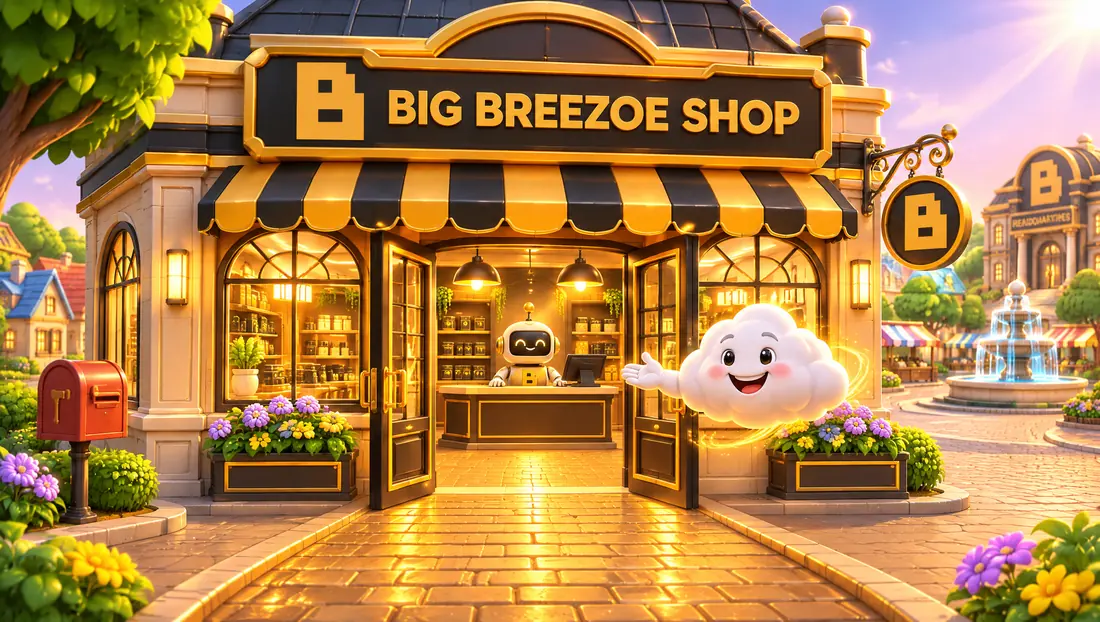
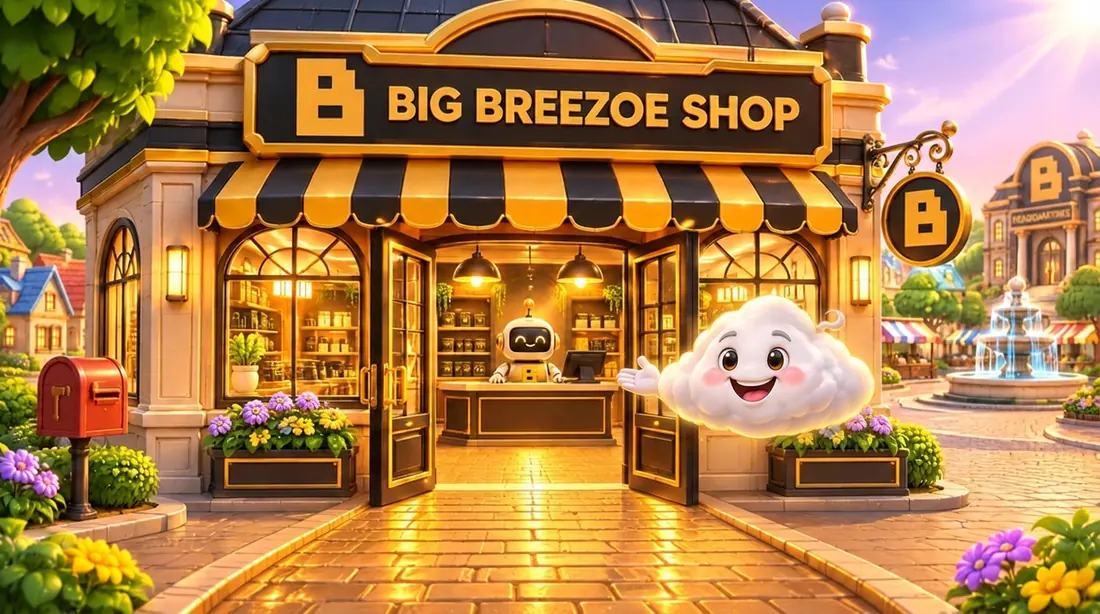
Breezy turns in steps, and the hero and shop pictures get his new face (#56)
Six more angles of the same cloud (front to side, back three-quarter,
back), so the Ask Breezy button looks left and right in steps and spins
all the way round every third time. They load on the first quiet moment,
not with the page. Reduced motion: no turn, as before.

The home hero and the members shop picture now show Breezy's big-eyed
face. Same file names, so each reference carries a v=2 stamp.

The pictures are AI-generated concept art of an original character.

diff --git a/public/index.html b/public/index.html
@@ -29,9 +29,9 @@
 <link rel="preload" href="/media/hero-loop.avif" as="image" type="image/avif" fetchpriority="high">
 <!--bb:head-->
 <link rel="preload" href="/fonts/archivo-latin.woff2" as="font" type="font/woff2" crossorigin>
-<link rel="stylesheet" href="/assets/bb.css?v=bab32f9096">
+<link rel="stylesheet" href="/assets/bb.css?v=684ec88070">
 <script>document.documentElement.classList.add('js');setTimeout(function(){if(!window.__bbReady)document.documentElement.classList.add('rv-off')},2500)</script>
-<script src="/assets/bb.js?v=bac7d2e8d4" data-bz="218a1aadc4" defer></script>
+<script src="/assets/bb.js?v=6737adaa4a" data-bz="218a1aadc4" defer></script>
 <!--/bb:head-->
 <script type="application/ld+json">{"@context":"https://schema.org","@graph":[{"@type":"Organization","@id":"https://bigbreezoe.com/#org","name":"Big Breezoe","legalName":"Big Breezoe LLC","url":"https://bigbreezoe.com/","logo":"https://bigbreezoe.com/favicon.svg","sameAs":["https://youtube.com/@bigbreezoe","https://tiktok.com/@bigbreezoe","https://instagram.com/bigbreezoe","https://x.com/bigbreezoe","https://twitch.tv/bigbreezoe","https://www.linkedin.com/in/bigbreezoe","https://facebook.com/bigbreezoe"],"founder":{"@id":"https://bigbreezoe.com/#cris"},"email":"hello@bigbreezoe.com","description":"Big Breezoe is one person, Cris Delerme, building a creator business in AI, content and automation around a full-time job, in public. Weekly YouTube episodes, a free Beginner Creator Blueprint, and setup help at one price per job."},{"@type":"WebSite","@id":"https://bigbreezoe.com/#site","url":"https://bigbreezoe.com/","name":"Big Breezoe","publisher":{"@id":"https://bigbreezoe.com/#org"}},{"@type":"Person","@id":"https://bigbreezoe.com/#cris","name":"Cris Delerme","alternateName":"Big Breezoe","url":"https://bigbreezoe.com/","worksFor":{"@id":"https://bigbreezoe.com/#org"},"sameAs":["https://youtube.com/@bigbreezoe"]},{"@type":"ItemList","@id":"https://bigbreezoe.com/#episodes","name":"Big Breezoe episodes","itemListOrder":"https://schema.org/ItemListOrderDescending","itemListElement":[{"@type":"ListItem","position":1,"item":{"@type":"VideoObject","name":"The One Thing No App Can Take From You (Start an Email List)","description":"Why Cris is building an email list, two people already doing it, the free tool he uses, a live test, and the email rules most people skip.","uploadDate":"2026-11-15T16:00:08-08:00","duration":"PT11M17S","thumbnailUrl":"https://i.ytimg.com/vi/A9awWFVUiPY/maxresdefault.jpg","contentUrl":"https://www.youtube.com/watch?v=A9awWFVUiPY","embedUrl":"https://www.youtube.com/embed/A9awWFVUiPY","publisher":{"@id":"https://bigbreezoe.com/#org"}}},{"@type":"ListItem","position":2,"item":{"@type":"VideoObject","name":"Stop Guessing Your Next Video: YouTube's Free 4-Step Method","description":"How to pick your next video without guessing: the free way with YouTube's own tools, then a paid tool to show what the extra money gets you.","uploadDate":"2026-11-08T16:00:07-08:00","duration":"PT9M11S","thumbnailUrl":"https://bigbreezoe.com/media/ep/ep6.webp","contentUrl":"https://www.youtube.com/watch?v=4bjLrZQvZFY","embedUrl":"https://www.youtube.com/embed/4bjLrZQvZFY","publisher":{"@id":"https://bigbreezoe.com/#org"}}},{"@type":"ListItem","position":3,"item":{"@type":"VideoObject","name":"One of These Voices Is AI. Can You Tell?","description":"A blind test of Cris's real voice against an AI voice, plus the speech-to-text he uses on every edit and the catch with the free plan.","uploadDate":"2026-11-02T15:55:39-08:00","duration":"PT7M58S","thumbnailUrl":"https://bigbreezoe.com/media/ep/ep5.webp","contentUrl":"https://www.youtube.com/watch?v=Ht6NTtqV3Yk","embedUrl":"https://www.youtube.com/embed/Ht6NTtqV3Yk","publisher":{"@id":"https://bigbreezoe.com/#org"}}},{"@type":"ListItem","position":4,"item":{"@type":"VideoObject","name":"My Episode Lost to Its Own Clip. 4 Tools That Turn 1 Video Into 10","description":"Four tools that turn one long video into many short ones, each labeled by whether Cris uses it, has used it, or only researched it.","uploadDate":"2026-10-26T20:04:13-07:00","duration":"PT4M30S","thumbnailUrl":"https://bigbreezoe.com/media/ep/ep4.webp","contentUrl":"https://www.youtube.com/watch?v=4CSPWjAo9R4","embedUrl":"https://www.youtube.com/embed/4CSPWjAo9R4","publisher":{"@id":"https://bigbreezoe.com/#org"}}},{"@type":"ListItem","position":5,"item":{"@type":"VideoObject","name":"Which Video Editor Should You Start With? Free vs. Paid","description":"Free and paid video editors compared for someone starting out.","uploadDate":"2026-10-18T07:00:07-07:00","duration":"PT7M17S","thumbnailUrl":"https://bigbreezoe.com/media/ep/ep3.webp","contentUrl":"https://www.youtube.com/watch?v=biNZ1V3bXQg","embedUrl":"https://www.youtube.com/embed/biNZ1V3bXQg","publisher":{"@id":"https://bigbreezoe.com/#org"}}},{"@type":"ListItem","position":6,"item":{"@type":"VideoObject","name":"Do You Need a Wireless Mic? I Tested It Against My Phone","description":"A wireless clip-on mic tested against a phone's own microphone.","uploadDate":"2026-10-04T07:00:09-07:00","duration":"PT6M45S","thumbnailUrl":"https://bigbreezoe.com/media/ep/ep2.webp","contentUrl":"https://www.youtube.com/watch?v=RWV-s5zHj-Q","embedUrl":"https://www.youtube.com/embed/RWV-s5zHj-Q","publisher":{"@id":"https://bigbreezoe.com/#org"}}},{"@type":"ListItem","position":7,"item":{"@type":"VideoObject","name":"I Had 39 Subscribers and Zero Videos. Here's What I'm Building.","description":"Episode 1: where Big Breezoe starts and what Cris is building.","uploadDate":"2026-09-27T07:00:06-07:00","duration":"PT6M8S","thumbnailUrl":"https://bigbreezoe.com/media/ep/ep1.webp","contentUrl":"https://www.youtube.com/watch?v=aCd5qoeZ9xc","embedUrl":"https://www.youtube.com/embed/aCd5qoeZ9xc","publisher":{"@id":"https://bigbreezoe.com/#org"}}}]}]}</script>
 </head>
@@ -54,7 +54,7 @@
 <!-- 1. Hero -->
 <section class="hero" id="top" aria-labelledby="hero-h">
 <div class="hero-media" aria-hidden="true">
-<img src="/media/golden-road-hero.webp" srcset="/media/golden-road-hero-800.webp 800w, /media/golden-road-hero.webp 1600w" sizes="100vw" width="1600" height="893" alt="" fetchpriority="high" decoding="async">
+<img src="/media/golden-road-hero.webp?v=2" srcset="/media/golden-road-hero-800.webp?v=2 800w, /media/golden-road-hero.webp?v=2 1600w" sizes="100vw" width="1600" height="893" alt="" fetchpriority="high" decoding="async">
 </div>
 <span class="hero-tag">AI-generated concept art</span>
 <div class="wrap hero-in">

diff --git a/public/assets/breezy-turn.js b/public/assets/breezy-turn.js
@@ -1,5 +1,5 @@
 /* Breezy's turnaround (Nov 18). Loaded after the page is up, so the shared script stays small.
-   Adds three more drawings of the same cloud to the Ask Breezy button (three-quarter, flying, pointing; all face left,
+   Adds more drawings of the same cloud to the Ask Breezy button (three-quarter, flying, pointing, and six turn angles; all face left,
    and .bzc-turn mirrors them to face right). He leans into a flight, points at the step with his cloud arm, flies back,
    and looks left and right now and then. Only transform and opacity move. Reduced motion: no flight pose, no glance. */
 (function () {
@@ -44,13 +44,41 @@
   }
   new MutationObserver(onMove).observe(b, { attributes: true, attributeFilter: ['class'] });
 
-  // The turnaround: at home with nothing else going on, he looks left, then right, then back.
+  // The turnaround (Nov 19: six more angles, so a turn is drawn in steps instead of one jump). s1 to s4 turn from the
+  // front to a full side view, s5 is the back three-quarter and s6 the back. They load on the first quiet moment,
+  // not with the page. At home with nothing else going on he looks left and right; every third time he spins all the way round.
+  var more = 0, n = 0;
+  function loadMore() {
+    more = [];
+    for (var k = 1; k < 7; k++) {
+      var i = doc.createElement('img'); i.className = 'bzc-s' + k; i.src = '/media/breezy-cloud-s' + k + '.webp';
+      i.width = 176; i.height = 109; i.alt = ''; i.decoding = 'async';
+      turn.appendChild(i); more.push(i);
+    }
+  }
+  function ready() { return more.every(function (i) { return i.complete && i.naturalWidth; }); }
+  function steps(names, dir) { return names.split(' ').map(function (v) { return [v, dir]; }); }
+  var LOOK = steps('s1 s2 s3 s3 s3 s2 s1', 'l').concat([['front', '']], steps('s1 s2 s3 s3 s3 s2 s1', 'r'), [['front', '']]);
+  var SPIN = steps('s1 s2 s3 s4 s5', 'l').concat([['s6', '']], steps('s5 s4 s3 s2 s1', 'r'), [['front', '']]);
+  function play(seq, ms) {
+    c.setAttribute('data-step', '');
+    seq.forEach(function (s, i) {
+      setTimeout(function () {
+        if (!c.hasAttribute('data-step')) return;
+        if (away()) return c.removeAttribute('data-step');
+        view(s[0], s[1]);
+        if (i === seq.length - 1) c.removeAttribute('data-step');
+      }, i * ms);
+    });
+  }
   if (!calm) setInterval(function () {
     if (doc.hidden || away() || b.getAttribute('aria-expanded') === 'true' || (c.getAttribute('data-view') || 'front') !== 'front') return;
-    [['tq', 'l', 0], ['front', '', 1100], ['tq', 'r', 1500], ['front', '', 2700]].forEach(function (s) {
-      setTimeout(function () { if (!away()) view(s[0], s[1]); }, s[2]);
-    });
+    if (!more) return loadMore();
+    if (!ready()) return;
+    n++;
+    if (n % 3) play(LOOK, 150); else play(SPIN, 130);
   }, 13000);
 
   window.BBCloudView = view;
+  window.BBCloudSpin = function (all) { if (!more) loadMore(); (function go() { if (ready()) play(all ? SPIN : LOOK, all ? 130 : 150); else setTimeout(go, 200); })(); };
 })();

diff --git a/public/members/index.html b/public/members/index.html
@@ -24,9 +24,9 @@
 <noscript></noscript>
 <!--bb:head-->
 <link rel="preload" href="/fonts/archivo-latin.woff2" as="font" type="font/woff2" crossorigin>
-<link rel="stylesheet" href="/assets/bb.css?v=bab32f9096">
+<link rel="stylesheet" href="/assets/bb.css?v=684ec88070">
 <script>document.documentElement.classList.add('js');setTimeout(function(){if(!window.__bbReady)document.documentElement.classList.add('rv-off')},2500)</script>
-<script src="/assets/bb.js?v=bac7d2e8d4" data-bz="218a1aadc4" defer></script>
+<script src="/assets/bb.js?v=6737adaa4a" data-bz="218a1aadc4" defer></script>
 <!--/bb:head-->
 <link rel="stylesheet" href="/assets/city-gate.css">
 </head>
@@ -103,7 +103,7 @@
 <div class="city-peek">
 <figure><img src="/media/city/city-map.webp" width="1400" height="781" loading="lazy" decoding="async" alt="Concept picture of Breezoe City from above: a plaza with a fountain, Headquarters, and buildings for the Studio, the Shop, the Gear Shelf, the Breeze, Markets, the Crew and the Welcome Center, with streets of houses around them."><figcaption><b>Downtown and the districts.</b> One building for each part of the work: content, the shop, gear, and the rest. Breezy points you to your next step.</figcaption></figure>
 <figure><img src="/media/city/building-inside.webp" width="1100" height="614" loading="lazy" decoding="async" alt="Concept picture of the inside of a member's building with the roof off: glass rooms, desks with screens, a corner office, a lounge and a server room."><figcaption><b>Your own building.</b> Your AI helpers sit at the desks. You see what each one is working on and what's waiting on you.</figcaption></figure>
-<figure><img src="/media/city/city-shop.webp" width="1100" height="614" loading="lazy" decoding="async" alt="Concept picture of the Big Breezoe Shop in the city, with Breezy the cloud waving at the open door."><figcaption><b>The Big Breezoe Shop.</b> The same shop that's on this site today, with a front door in the city.</figcaption></figure>
+<figure><img src="/media/city/city-shop.webp?v=2" width="1100" height="614" loading="lazy" decoding="async" alt="Concept picture of the Big Breezoe Shop in the city, with Breezy the cloud waving at the open door."><figcaption><b>The Big Breezoe Shop.</b> The same shop that's on this site today, with a front door in the city.</figcaption></figure>
 </div>
 <p class="note">These three pictures are AI-generated concept art of what I'm building. They aren't screenshots of a finished product, and the city can change before it opens.</p>
 <div class="fm-grid">

diff --git a/public/assets/bb.css b/public/assets/bb.css
@@ -1296,6 +1296,13 @@ body::after{content:'';position:fixed;inset:0;z-index:-1;pointer-events:none;
 .bzc-lid.r{left:57.7%;top:43.1%;width:4.9%;height:11.3%;margin-left:-2.5%}
 .bzc[data-view=tq] .bzc-lid.l{left:25.4%;top:44.0%;width:3.2%;height:10.1%;margin-left:-1.6%}
 .bzc[data-view=tq] .bzc-lid.r{left:35.2%;top:45.9%;width:4.0%;height:10.4%;margin-left:-2.0%}
+/* Nov 19: six turn angles (s1 to s4 front to side, s5 back three-quarter, s6 back). While a turn plays in steps the mirror snaps
+   instead of squashing, and each drawing fades in faster. */
+.bzc[data-view=s1] .bzc-s1,.bzc[data-view=s2] .bzc-s2,.bzc[data-view=s3] .bzc-s3,.bzc[data-view=s4] .bzc-s4,.bzc[data-view=s5] .bzc-s5,.bzc[data-view=s6] .bzc-s6{opacity:1}
+.bzc[data-view^=s] .bzc-lit{opacity:0}
+.bzc[data-view^=s] .bzc-lid{display:none}
+.bzc[data-step] .bzc-turn{transition:none}
+.bzc[data-step] .bzc-turn img{transition-duration:110ms}
 @media (prefers-reduced-motion:reduce){.bzc-turn,.bzc-turn img{transition:none}}
 
 /* ---------- Nov 18: Breezy's one face. Cris picked the big happy eyes for everywhere, so the four drawings are redrawn in that face.

diff --git a/public/welcome/index.html b/public/welcome/index.html
@@ -11,9 +11,9 @@
 <meta name="description" content="You're a Big Breezoe member now. Watch the short clip, see what you get for free, and answer nine quick taps to find your first step.">
 <!--bb:head-->
 <link rel="preload" href="/fonts/archivo-latin.woff2" as="font" type="font/woff2" crossorigin>
-<link rel="stylesheet" href="/assets/bb.css?v=bab32f9096">
+<link rel="stylesheet" href="/assets/bb.css?v=684ec88070">
 <script>document.documentElement.classList.add('js');setTimeout(function(){if(!window.__bbReady)document.documentElement.classList.add('rv-off')},2500)</script>
-<script src="/assets/bb.js?v=bac7d2e8d4" data-bz="218a1aadc4" defer></script>
+<script src="/assets/bb.js?v=6737adaa4a" data-bz="218a1aadc4" defer></script>
 <!--/bb:head-->
 </head>
 <body class="wl-page">

diff --git a/public/404.html b/public/404.html
@@ -11,9 +11,9 @@
 <noscript></noscript>
 <!--bb:head-->
 <link rel="preload" href="/fonts/archivo-latin.woff2" as="font" type="font/woff2" crossorigin>
-<link rel="stylesheet" href="/assets/bb.css?v=bab32f9096">
+<link rel="stylesheet" href="/assets/bb.css?v=684ec88070">
 <script>document.documentElement.classList.add('js');setTimeout(function(){if(!window.__bbReady)document.documentElement.classList.add('rv-off')},2500)</script>
-<script src="/assets/bb.js?v=bac7d2e8d4" data-bz="218a1aadc4" defer></script>
+<script src="/assets/bb.js?v=6737adaa4a" data-bz="218a1aadc4" defer></script>
 <!--/bb:head-->
 </head>
 <body>

diff --git a/public/blogs/index.html b/public/blogs/index.html
@@ -24,9 +24,9 @@
 <noscript></noscript>
 <!--bb:head-->
 <link rel="preload" href="/fonts/archivo-latin.woff2" as="font" type="font/woff2" crossorigin>
-<link rel="stylesheet" href="/assets/bb.css?v=bab32f9096">
+<link rel="stylesheet" href="/assets/bb.css?v=684ec88070">
 <script>document.documentElement.classList.add('js');setTimeout(function(){if(!window.__bbReady)document.documentElement.classList.add('rv-off')},2500)</script>
-<script src="/assets/bb.js?v=bac7d2e8d4" data-bz="218a1aadc4" defer></script>
+<script src="/assets/bb.js?v=6737adaa4a" data-bz="218a1aadc4" defer></script>
 <!--/bb:head-->
 </head>
 <body>

diff --git a/public/blueprint/guide/index.html b/public/blueprint/guide/index.html
@@ -24,9 +24,9 @@
 <noscript></noscript>
 <!--bb:head-->
 <link rel="preload" href="/fonts/archivo-latin.woff2" as="font" type="font/woff2" crossorigin>
-<link rel="stylesheet" href="/assets/bb.css?v=bab32f9096">
+<link rel="stylesheet" href="/assets/bb.css?v=684ec88070">
 <script>document.documentElement.classList.add('js');setTimeout(function(){if(!window.__bbReady)document.documentElement.classList.add('rv-off')},2500)</script>
-<script src="/assets/bb.js?v=bac7d2e8d4" data-bz="218a1aadc4" defer></script>
+<script src="/assets/bb.js?v=6737adaa4a" data-bz="218a1aadc4" defer></script>
 <!--/bb:head-->
 </head>
 <body>

diff --git a/public/blueprint/index.html b/public/blueprint/index.html
@@ -24,9 +24,9 @@
 <noscript></noscript>
 <!--bb:head-->
 <link rel="preload" href="/fonts/archivo-latin.woff2" as="font" type="font/woff2" crossorigin>
-<link rel="stylesheet" href="/assets/bb.css?v=bab32f9096">
+<link rel="stylesheet" href="/assets/bb.css?v=684ec88070">
 <script>document.documentElement.classList.add('js');setTimeout(function(){if(!window.__bbReady)document.documentElement.classList.add('rv-off')},2500)</script>
-<script src="/assets/bb.js?v=bac7d2e8d4" data-bz="218a1aadc4" defer></script>
+<script src="/assets/bb.js?v=6737adaa4a" data-bz="218a1aadc4" defer></script>
 <!--/bb:head-->
 </head>
 <body>

diff --git a/public/booked/index.html b/public/booked/index.html
@@ -11,9 +11,9 @@
 <noscript></noscript>
 <!--bb:head-->
 <link rel="preload" href="/fonts/archivo-latin.woff2" as="font" type="font/woff2" crossorigin>
-<link rel="stylesheet" href="/assets/bb.css?v=bab32f9096">
+<link rel="stylesheet" href="/assets/bb.css?v=684ec88070">
 <script>document.documentElement.classList.add('js');setTimeout(function(){if(!window.__bbReady)document.documentElement.classList.add('rv-off')},2500)</script>
-<script src="/assets/bb.js?v=bac7d2e8d4" data-bz="218a1aadc4" defer></script>
+<script src="/assets/bb.js?v=6737adaa4a" data-bz="218a1aadc4" defer></script>
 <!--/bb:head-->
 </head>
 <body>

diff --git a/public/checkout/index.html b/public/checkout/index.html
@@ -11,9 +11,9 @@
 <noscript></noscript>
 <!--bb:head-->
 <link rel="preload" href="/fonts/archivo-latin.woff2" as="font" type="font/woff2" crossorigin>
-<link rel="stylesheet" href="/assets/bb.css?v=bab32f9096">
+<link rel="stylesheet" href="/assets/bb.css?v=684ec88070">
 <script>document.documentElement.classList.add('js');setTimeout(function(){if(!window.__bbReady)document.documentElement.classList.add('rv-off')},2500)</script>
-<script src="/assets/bb.js?v=bac7d2e8d4" data-bz="218a1aadc4" defer></script>
+<script src="/assets/bb.js?v=6737adaa4a" data-bz="218a1aadc4" defer></script>
 <!--/bb:head-->
 </head>
 <body>

diff --git a/public/download/index.html b/public/download/index.html
@@ -11,9 +11,9 @@
 <noscript></noscript>
 <!--bb:head-->
 <link rel="preload" href="/fonts/archivo-latin.woff2" as="font" type="font/woff2" crossorigin>
-<link rel="stylesheet" href="/assets/bb.css?v=bab32f9096">
+<link rel="stylesheet" href="/assets/bb.css?v=684ec88070">
 <script>document.documentElement.classList.add('js');setTimeout(function(){if(!window.__bbReady)document.documentElement.classList.add('rv-off')},2500)</script>
-<script src="/assets/bb.js?v=bac7d2e8d4" data-bz="218a1aadc4" defer></script>
+<script src="/assets/bb.js?v=6737adaa4a" data-bz="218a1aadc4" defer></script>
 <!--/bb:head-->
 </head>
 <body>
